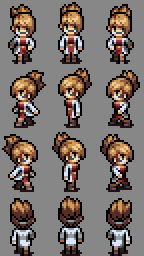
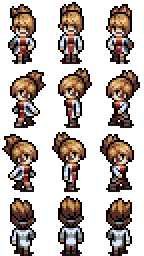
Moving peoples

diff --git a/app/scene/play_scene.js b/app/scene/play_scene.js
@@ -71,23 +71,28 @@ var PlayScene = {
     woman.animations.add('right', [6, 7, 8, 7]);
     woman.animations.add('stop', [1]);
 
-    window.right = function() {
-      var tweenRight = game.add.tween(woman).to({ x: game.width / 2 + 150 }, 3000, Phaser.Easing.Linear.None, true);
-      woman.animations.play('right', 3, true);
-      tweenRight.onComplete.addOnce(function () {
-        woman.animations.stop('right', true);
-        woman.animations.play('stop');
-        setTimeout(left, Math.random() * 20 * 1000);
+    function doTween(thing, state, duration) {
+      duration = duration || 3000;
+      var tween = game.add.tween(thing).to(state, 3000, Phaser.Easing.Linear.None, true);
+      return tween;
+    }
+
+    function tweenAndAnimate(sprite, animation, tween, doNext) {
+      sprite.animations.play(animation, 3, true);
+      tween.onComplete.addOnce(function () {
+        sprite.animations.stop(animation, true);
+        sprite.animations.play('stop');
+        setTimeout(_.partial(doNext, animation), Math.random() * 20 * 1000);
       }, this);
+    }
+
+    window.right = function() {
+      var tweenRight = doTween(woman, { x: game.width / 2 + 150 })
+      tweenAndAnimate(woman, 'right', tweenRight, left);
     };
     window.left = function() {
-      var tweenLeft = game.add.tween(woman).to({ x: game.width / 2 - 150 }, 3000, Phaser.Easing.Linear.None, true);
-      woman.animations.play('left', 3, true);
-      tweenLeft.onComplete.addOnce(function () {
-        woman.animations.stop('left', true);
-        woman.animations.play('stop');
-        setTimeout(right, Math.random() * 20 * 1000);
-      }, this);
+      var tweenLeft = doTween(woman, { x: game.width / 2 - 150 });
+      tweenAndAnimate(woman, 'left', tweenLeft, right);
     };
 
     right();
@@ -103,19 +108,70 @@ var PlayScene = {
     conveyor.anchor.setTo(0.5, 0);
 
     // add player 1
-    player1 = new Player(game, 'Player 1', 1);
+
+    var playerOneX = 150;
+    var playerTwoX = game.width - 150;
+    var playerY = game.height + 100;
+
+    function getSpriteFor(playerNum) {
+      var x = playerNum === 0 ? playerOneX : playerTwoX;
+      var stopFrame = playerNum === 0 ? 7 : 4;
+      var playerSprite = game.add.sprite(x, playerY, 'woman_b');
+
+      playerSprite.anchor.set(.5, 1);
+      playerSprite.scale.set(7, 7);
+      //playerSprite.animations.add('left', [3, 4, 5, 4]);
+      playerSprite.animations.add('stop', [stopFrame]);
+      playerSprite.animations.add('up', [9, 10, 11]);
+      playerSprite.animations.add('down', [0, 1, 2]);
+
+      playerSprite.animations.play('stop');
+
+      return playerSprite;
+    }
+
+    player1 = new Player(game, 'Player 1', 1, getSpriteFor(0));
     player1.populateInventory()
+
+    var p1ConveyorStart = { x: playerOneX, y : playerY };
+    var p1ConveyorEnd = { x: playerOneX + 150, y : playerY - 200 };
+    var p2ConveyorStart = { x: playerTwoX, y : playerY };
+    var p2ConveyorEnd = { x: playerTwoX - 150, y : playerY - 200 };
+    var p1ConveyorEndScale = { x: 6.5, y: 6.5};
+
+
+    function chooseNext(playerNum, lastAnimation) {
+      var tween, tweenOptions, animation;
+      var player = playerNum === 0 ? player1 : player2;
+
+      switch(lastAnimation) {
+        case 'up':
+          tweenOptions = playerNum === 0 ? p1ConveyorStart : p2ConveyorStart;
+          animation = 'down';
+          break;
+        case 'down':
+          tweenOptions = playerNum === 0 ? p1ConveyorEnd : p2ConveyorEnd;
+          animation = 'up';
+          break;
+      }
+
+      tween = doTween(player.sprite, tweenOptions);
+      tweenAndAnimate(player.sprite, animation, tween, _.partial(chooseNext, playerNum));
+    }
 
     player1.addPlate();
 
     // add player 2
-    player2 = new Player(game, 'Player 2', 2);
+    player2 = new Player(game, 'Player 2', 2, getSpriteFor(1));
     player2.populateInventory();
 
     player2.addPlate();
 
     players.push(player1);
     players.push(player2);
+
+    chooseNext(0, 'down');
+    chooseNext(1, 'down');
 
     //// Set up GUI
     SUSPEND = false;

diff --git a/app/model/Player.js b/app/model/Player.js
@@ -1,7 +1,8 @@
 var play = require('../engine/play');
 var Plate = require('../model/Plate');
 
-var Player = function(game, name, id) {
+var Player = function(game, name, id, sprite) {
+  this.sprite = sprite;
   this.game = game;
   this.name = name;
   this.id = id;
